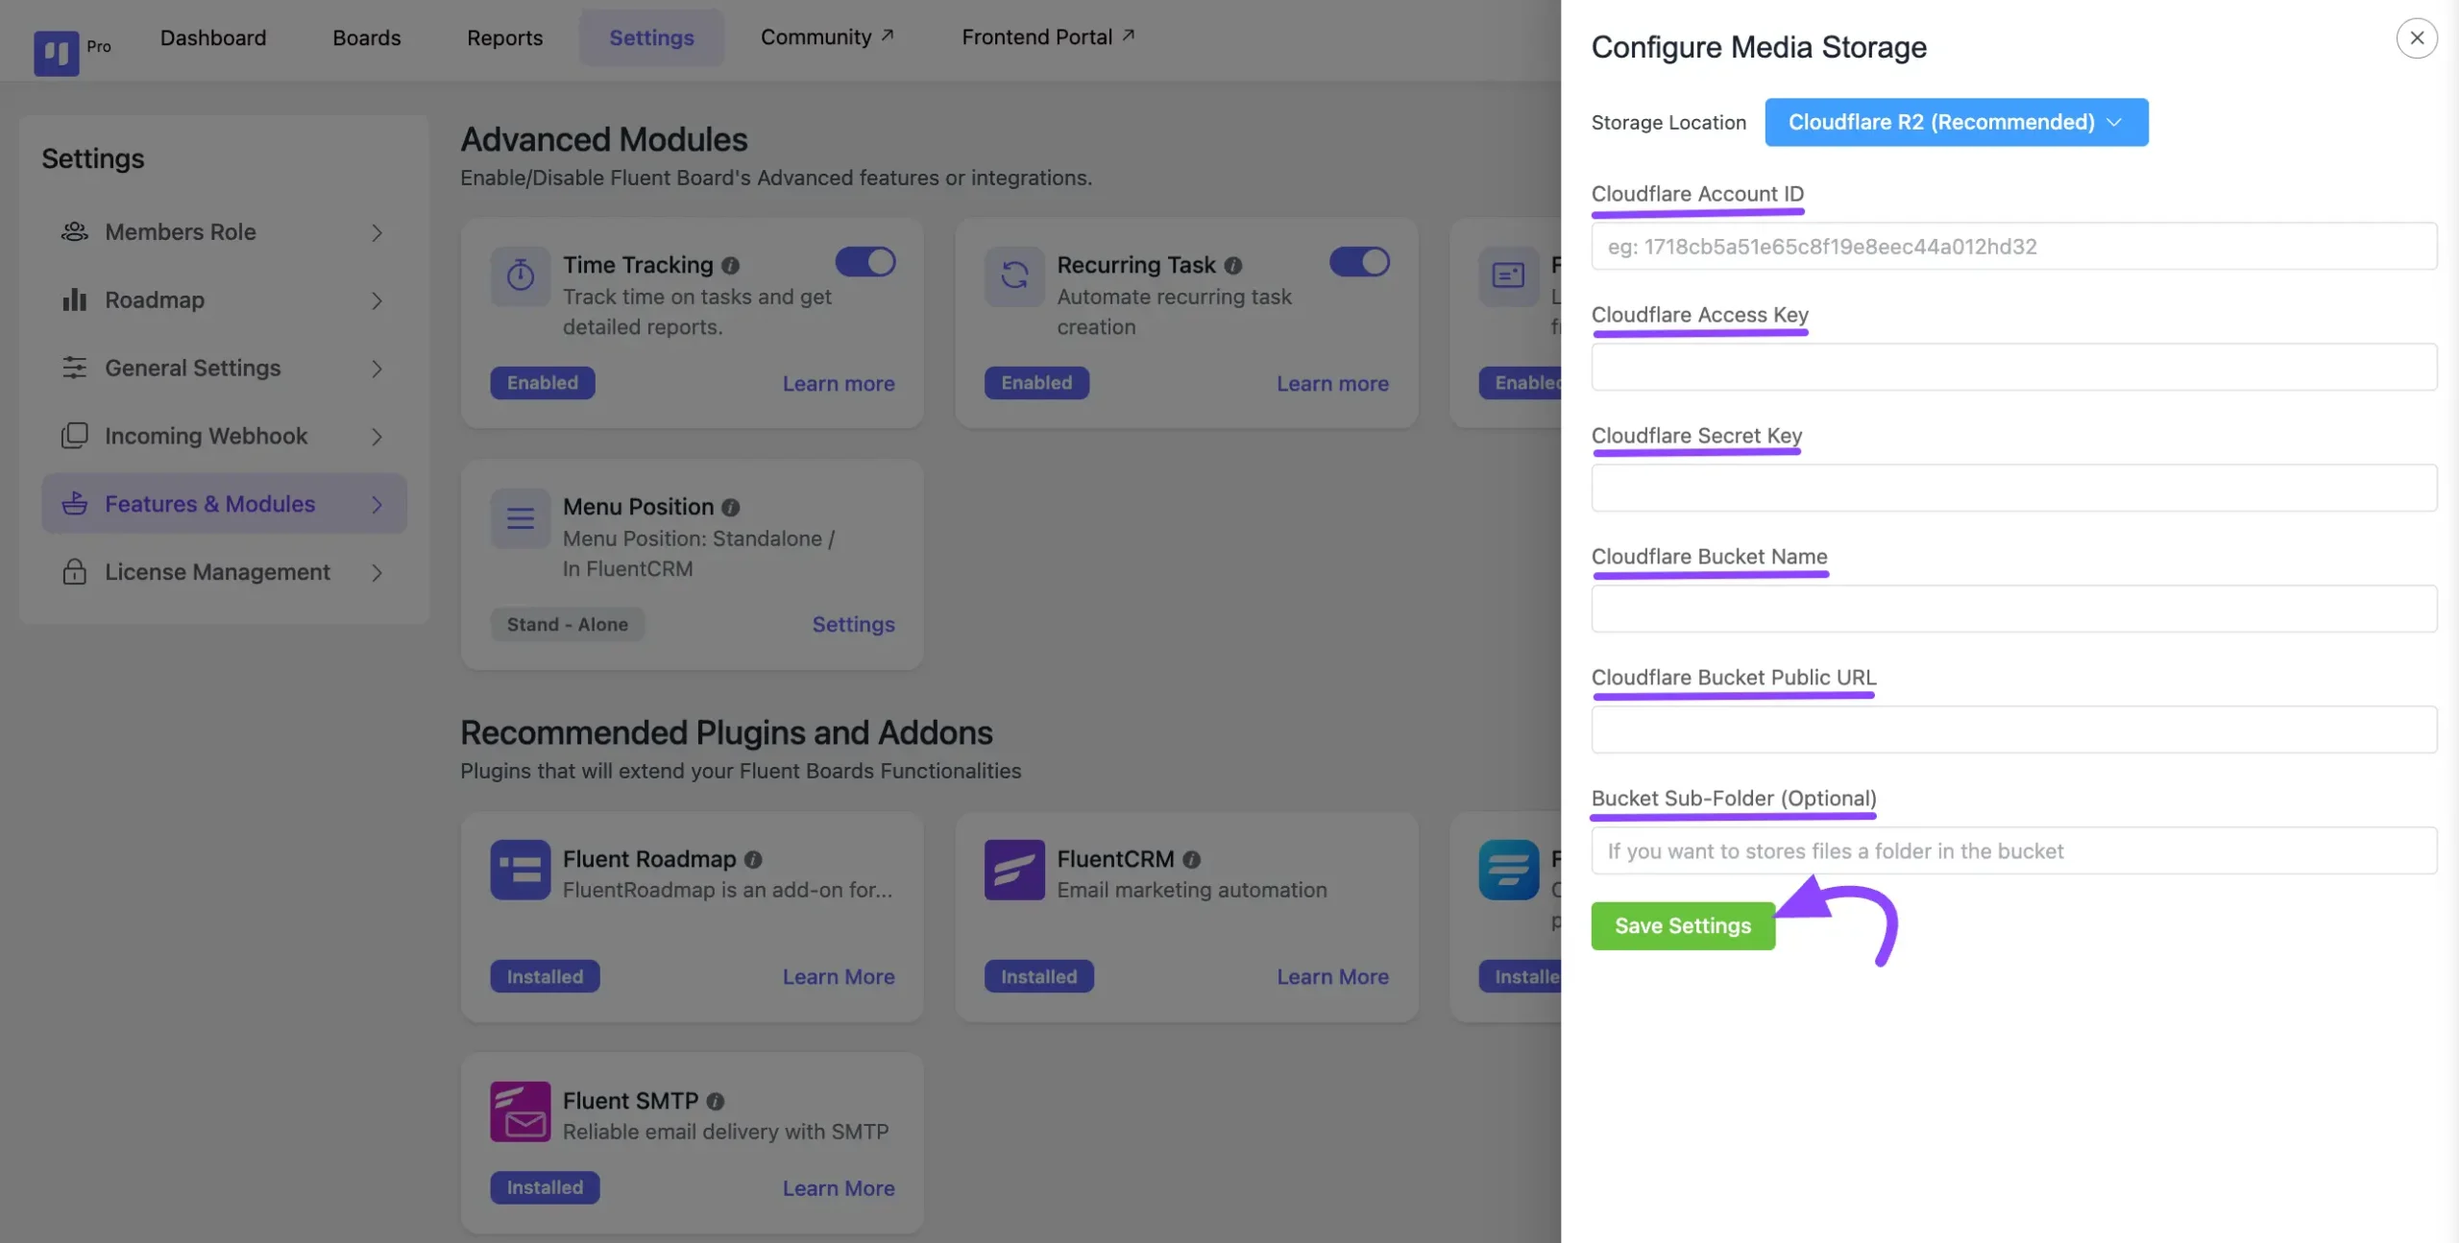
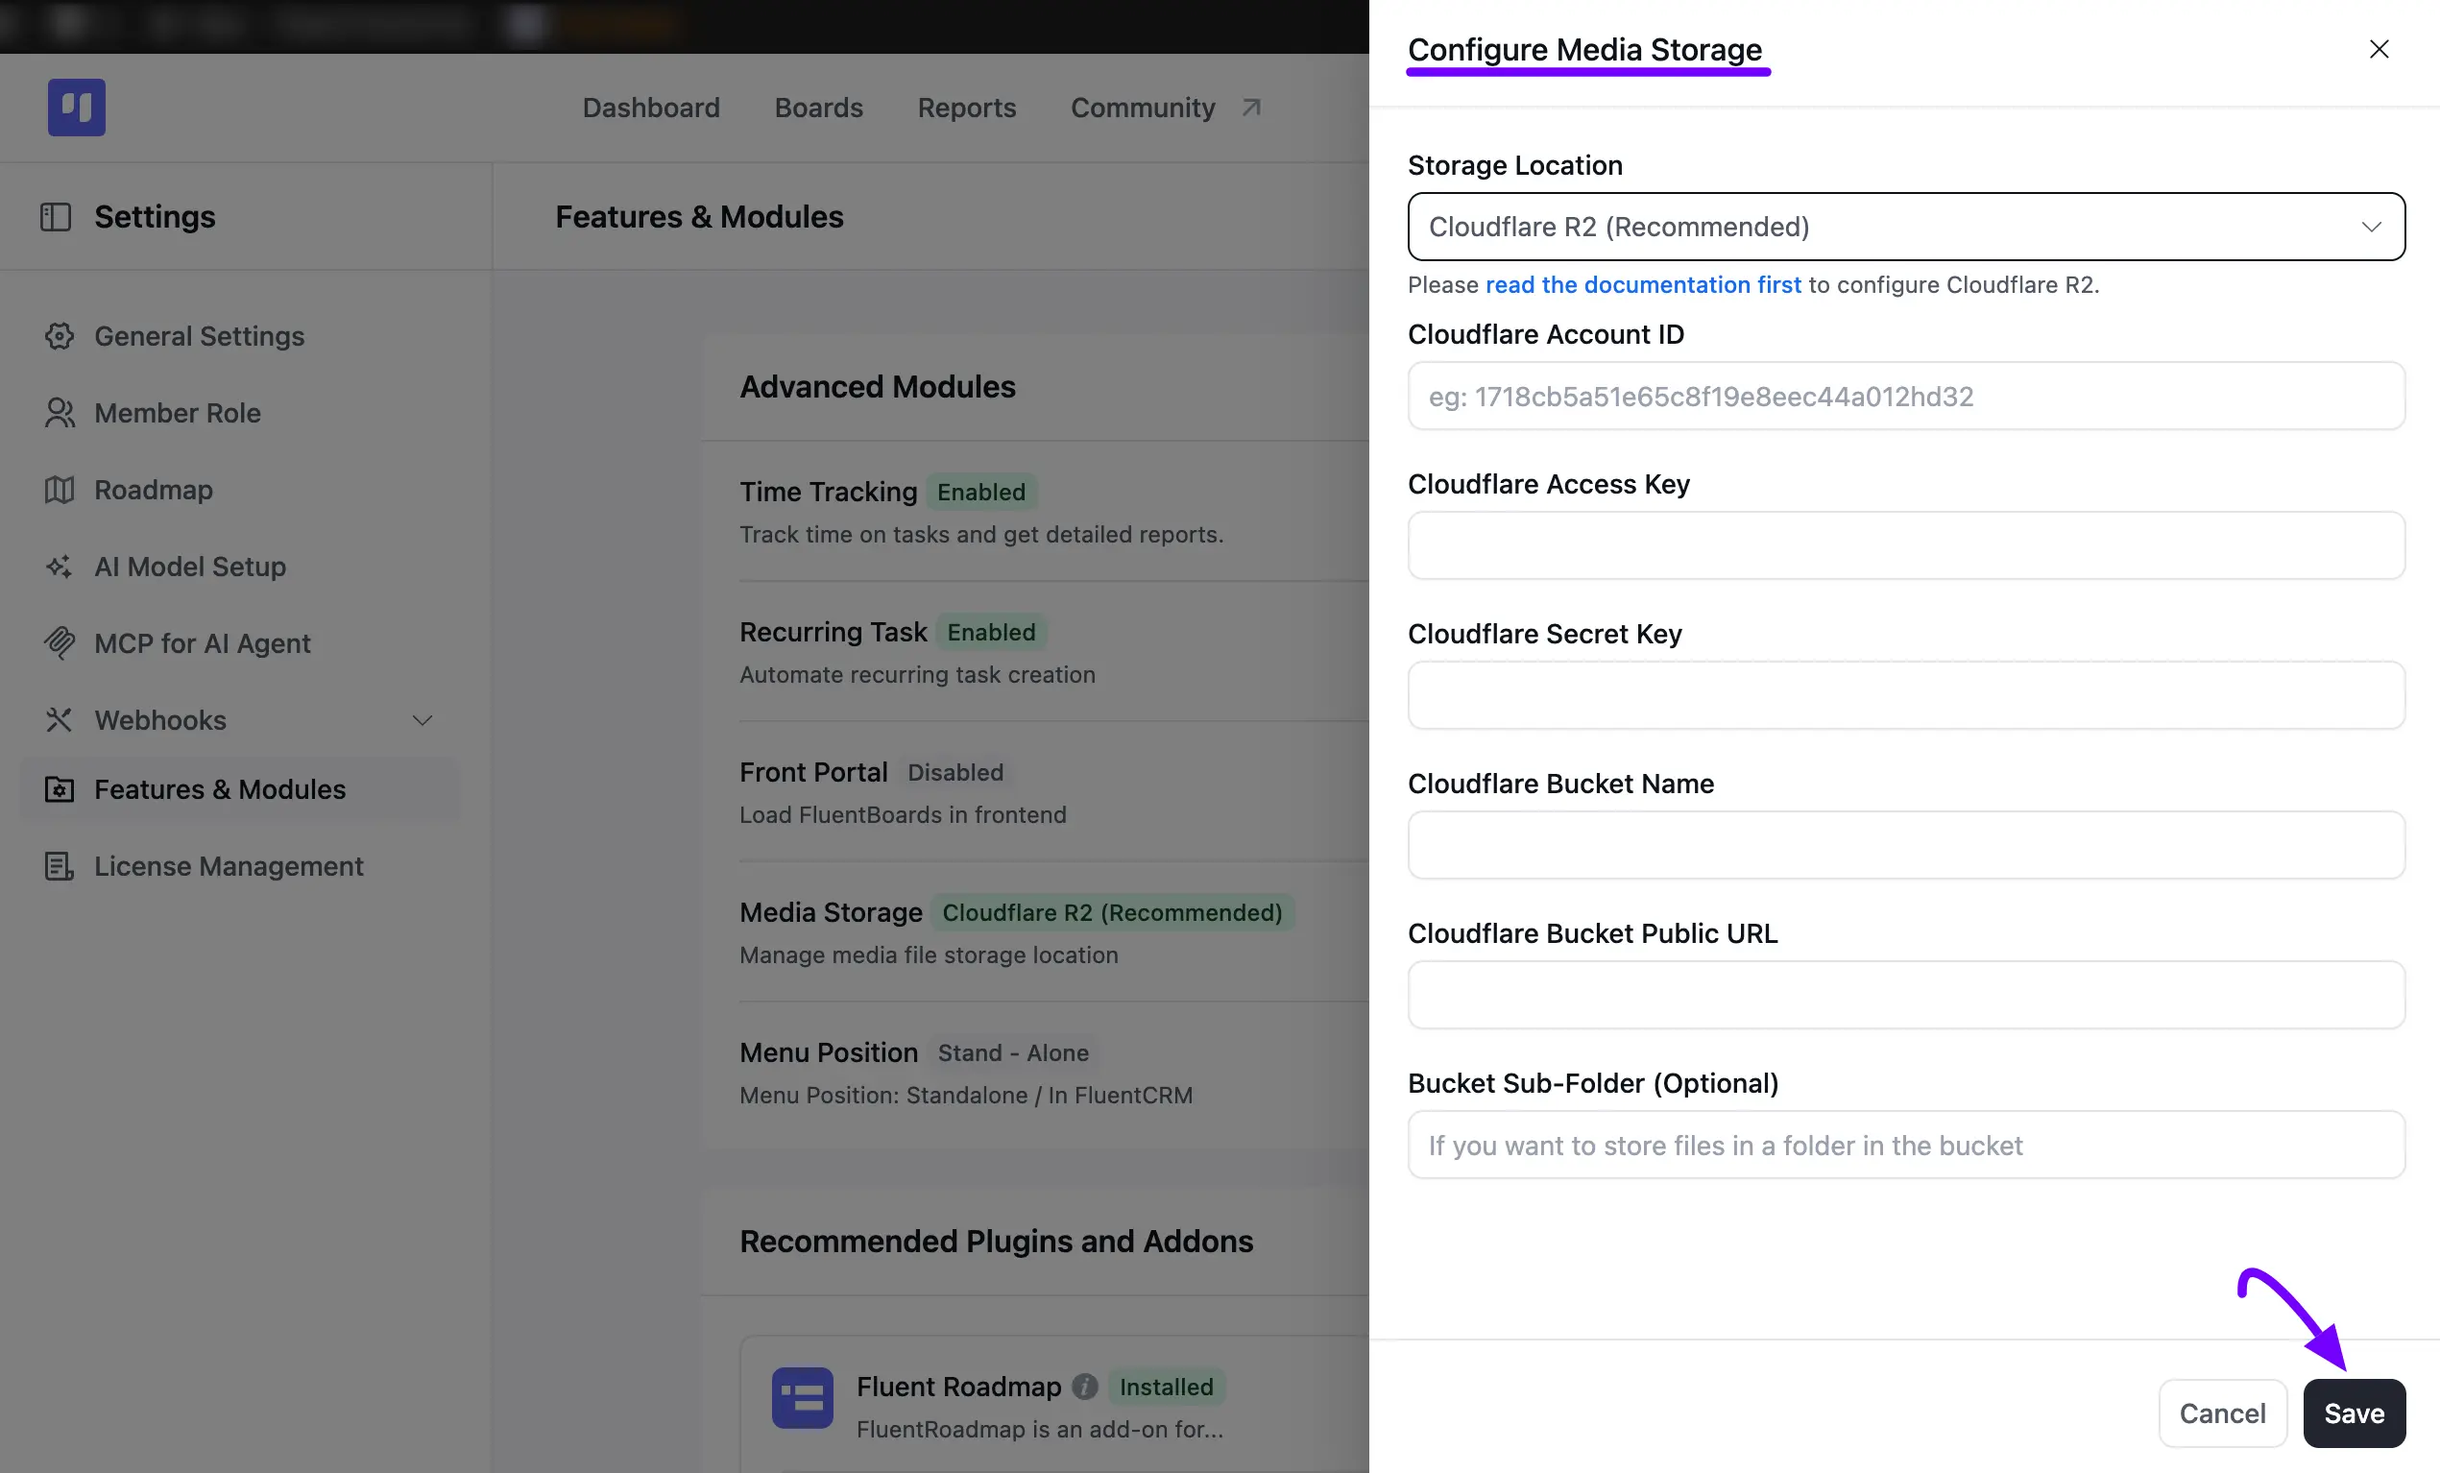
update fluentboards-integration-with-cloudflare-r2

diff --git a/docs/integrations/fluentboards-integration-with-cloudflare-r2.md b/docs/integrations/fluentboards-integration-with-cloudflare-r2.md
@@ -66,11 +66,11 @@ Here, you will find the **Access Key ID** and **Secret Access Key**. Make sure t
 
 ## Configure the FluentBoards with Cloudflare R2
 
-Now access FluentBoards and go to **Settings > Feature & Modules**. Here you will see the **Media Storage** section then click on the **Settings** button.
+Now access FluentBoards and go to **Settings > Features & Modules**. Here you will see the **Media Storage** option, then click on the **Manage** button.
 
 ![configure cloudflare r2 12](../public/images/integrations/fluentboards-integration-with-cloudflare-r2/configure-cloudflare-R2-12-scaled.webp)
 
-A popup will appear. Now, select **Cloudflare R2** and enter the credentials you collected from your Cloudflare account in the earlier steps of this guide.
+A **Configure Media Storage** pop-up will appear. Select **Cloudflare R2 (Recommended)** from the **Storage Location** dropdown, then enter the credentials you collected from your Cloudflare account in the earlier steps of this guide.
 
 **Cloudflare Account ID:** Input your CloudFlare Account ID.
 
@@ -82,9 +82,9 @@ A popup will appear. Now, select **Cloudflare R2** and enter the credentials you
 
 **Cloudflare Bucket Public URL:** Provide the Public R2.dev Bucket URL.
 
-**Bucket Sub-Folder (Optional):** If you created a subfolder for file uploads, provide its name. Otherwise, leave it empty.
+**Bucket Sub-Folder (Optional):** If you want to store files in a specific folder within the bucket, provide its name here. Otherwise, leave it empty.
 
-After you’ve completed all the fields, simply click the **Save Settings** button to store your Cloudflare configuration.
+After you’ve completed all the fields, simply click the **Save** button to store your Cloudflare configuration.
 
 ![cloudflare r2 13](../public/images/integrations/fluentboards-integration-with-cloudflare-r2/cloudflare-R2-13-scaled.webp)
 
